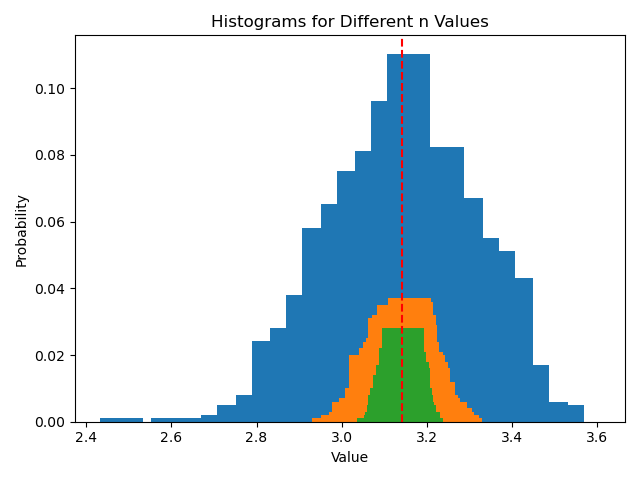
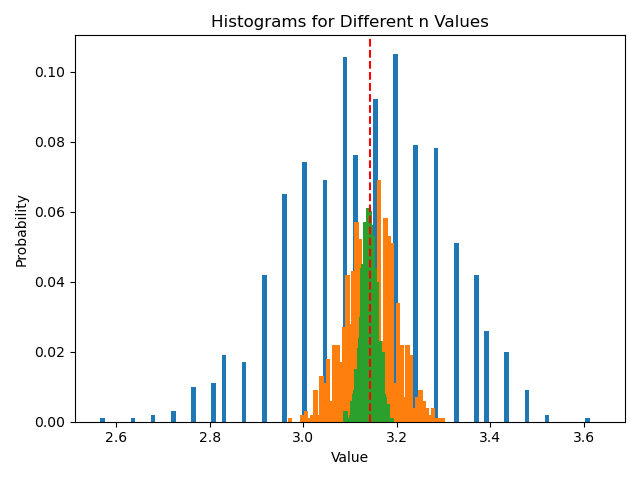
ex9p5

diff --git a/exercise09/mypiPlot.py b/exercise09/mypiPlot.py
@@ -18,7 +18,7 @@ results = mypi.verifyPi()
 
 # Plot the histograms for each value of n on the same graph
 for i in range(3):
-    plt.bar(results[:, i * 2], results[:, i * 2 + 1], width=0.1, label=f"n = {i + 2}")
+    plt.bar(results[:, i * 2], results[:, i * 2 + 1], width=0.01, label=f"n = {i + 2}")
 
 # Add a vertical line indicating the accurate value of pi
 plt.axvline(x=np.pi, color='r', linestyle='--', label='Actual π')
@@ -29,3 +29,46 @@ plt.ylabel("Probability")
 
 plt.tight_layout()
 plt.savefig('pi_histograms.png')
+plt.clf()
+
+# Report distribution average by weighting x values with p values
+print("Results for 2D case")
+
+average = np.sum(results[:, 0] * results[:, 1]) / np.sum(results[:, 1])
+print(f"Average value of π from the distribution n=2: {average}")
+
+average = np.sum(results[:, 2] * results[:, 3]) / np.sum(results[:, 3])
+print(f"Average value of π from the distribution n=3: {average}")
+
+average = np.sum(results[:, 4] * results[:, 5]) / np.sum(results[:, 5])
+print(f"Average value of π from the distribution n=4: {average}")
+
+# Call the verifyPi3D function and get the results
+results = mypi.verifyPi3D()
+
+# Plot the histograms for 3D case
+for i in range(3):
+    plt.bar(results[:, i * 2], results[:, i * 2 + 1], width=0.01, label=f"n = {i + 2}")
+
+# Add a vertical line indicating the accurate value of pi
+plt.axvline(x=np.pi, color='r', linestyle='--', label='Actual π')
+
+plt.title("Histograms for Different n Values (3D)")
+plt.xlabel("Value")
+plt.ylabel("Probability")
+
+plt.tight_layout()
+plt.savefig('pi_histograms_3D.png')
+plt.clf()
+
+# Report distribution average by weighting x values with p values
+print("Results for 3D case")
+
+average = np.sum(results[:, 0] * results[:, 1]) / np.sum(results[:, 1])
+print(f"Average value of π from the distribution n=2: {average}")
+
+average = np.sum(results[:, 2] * results[:, 3]) / np.sum(results[:, 3])
+print(f"Average value of π from the distribution n=3: {average}")
+
+average = np.sum(results[:, 4] * results[:, 5]) / np.sum(results[:, 5])
+print(f"Average value of π from the distribution n=4: {average}")

diff --git a/exercise09/mypiLink.cpp b/exercise09/mypiLink.cpp
@@ -8,21 +8,41 @@ using namespace Eigen;
 using namespace std;
 
 // Declarations
-void run_monte_carlo_simulation(int n, int K, double* x, double* p);
+void run_monte_carlo_simulation(int n, int K, double(*mypi)(int), double* x, double* p);
+double mypi(int N);
+double mypi3D(int N);
 
 /** @brief Run repeated Monte Carlo simulations estimating the value of pi
  *  @brief and create three different histograms with n = 2,3,4. Store the x and p values
  *  @brief in the columns of a K per 6 matrix.
 */
 Eigen::MatrixXd verifyPi() {
-    const int K = 200;  // Number of bins
+    const int K = 50;  // Number of bins
     Eigen::MatrixXd results(K, 6); // 100 rows, 6 columns
 
     // Run simulations for n = 2, 3, 4
     for (int i = 0; i < 3; ++i) {
         double *x = results.col(i * 2).data();
         double *p = results.col(i * 2 + 1).data();
-        run_monte_carlo_simulation(i + 2, K, x, p);
+        run_monte_carlo_simulation(i + 2, K, mypi, x, p);
+    }
+
+    return results;
+}
+
+/** @brief Run repeated Monte Carlo simulations estimating the value of pi
+ *  @brief and create three different histograms with n = 2,3,4. Store the x and p values
+ *  @brief in the columns of a K per 6 matrix.
+*/
+Eigen::MatrixXd verifyPi3D() {
+    const int K = 50;  // Number of bins
+    Eigen::MatrixXd results(K, 6); // 100 rows, 6 columns
+
+    // Run simulations for n = 2, 3, 4
+    for (int i = 0; i < 3; ++i) {
+        double *x = results.col(i * 2).data();
+        double *p = results.col(i * 2 + 1).data();
+        run_monte_carlo_simulation(i + 2, K, mypi3D, x, p);
     }
 
     return results;
@@ -34,4 +54,5 @@ BOOST_PYTHON_MODULE(mypi) {
     eigenpy::enableEigenPy();
 
     bp::def("verifyPi", verifyPi);
+    bp::def("verifyPi3D", verifyPi3D);
 }

diff --git a/exercise09/mypi.cpp b/exercise09/mypi.cpp
@@ -35,6 +35,22 @@ double mypi(int N) {
     return 4.0 * sum / N;
 }
 
+/** @brief Estimate the value of pi using 3D Monte Carlo simulation
+ *  @param N Number of random points to generate
+ *  @return Estimated value of pi
+ */
+double mypi3D(int N) {
+    double inside = 0.0;
+    for (int i = 0; i < N; ++i) {
+        double x = getRandomUniform();
+        double y = getRandomUniform();
+        double z = getRandomUniform();
+        if (x * x + y * y + z * z <= 1.0) {
+            inside += 1.0;
+        }
+    }
+    return (6.0 * inside) / N;
+}
 
 /**
  * @brief Create an M-bin histogram x and p values from the given data (using arrays)
@@ -92,7 +108,7 @@ void create_histogram(const double* data, int data_size, int K, double* x, doubl
  * @param K number of histogram bins in the output
  * @return arrays x and p representing the histogram
  */
-void run_monte_carlo_simulation(int n, int K, double* x, double* p) {
+void run_monte_carlo_simulation(int n, int K, double(*mypi)(int), double* x, double* p) {
     int N = pow(10, n);
     double *pi_values = new double[1000];
     for (int i = 0; i < 1000; ++i) {

diff --git a/README.md b/README.md
@@ -144,6 +144,10 @@ Required dependencies and installation instructions are given below. The code ha
   - [Problem 4 code](exercise09/problem4.cpp)
   - [Problem 4 plot](exercise09/random_vs_squared_averages.png)
   - [Problem 4 test](exercise09/exercise9_4.txt)
+  - [Problem 5 code](exercise09/mypi.cpp)
+  - [Problem 5(b) plot 2D](exercise09/pi_histograms.png)
+  - [Problem 5(c) plot 3D](exercise09/pi_histograms_3D.png)
+  - [Problem 5 test](exercise09/exercise9_5.txt)
    
 
 
